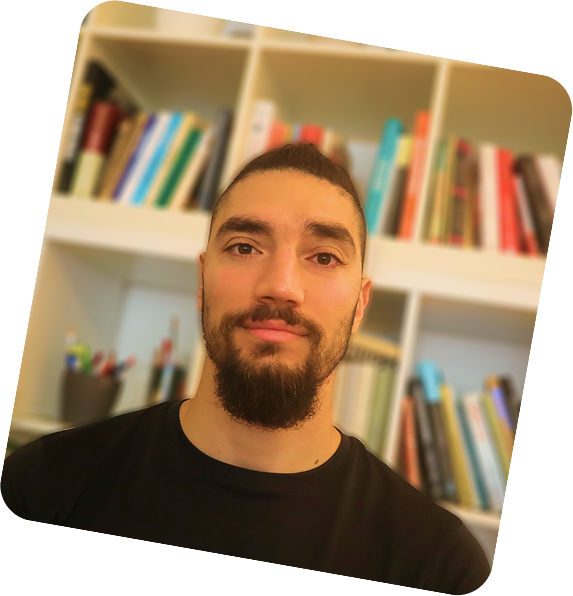
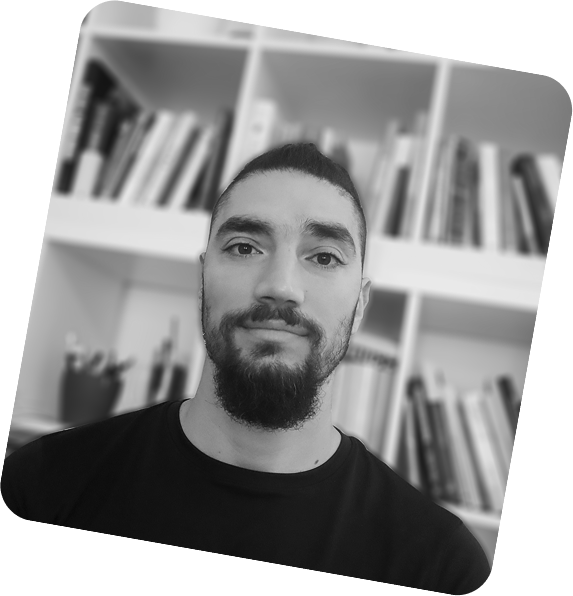
Responsive

diff --git a/style.css b/style.css
@@ -13,7 +13,7 @@
     --font-small: 0.875rem; /* 14px */
     --font-base: 1rem;      /* 16px */
     --font-large: clamp(1.5rem, 2vw, 2.5rem);  /* (min, prefered, max) */
-    --font-title: clamp(2.5rem, 4vw, 5rem);
+    --font-title: clamp(1rem, 4vw, 5rem);
 }
 
 
@@ -52,12 +52,13 @@ svg {
 
 /*--------------- HOME ---------------*/   
 #home {
-  max-width: 1500px;
+  max-width: 100%;
   margin: 0 auto;
   width: 100%;
   height: 90vh;
-  background: #cbaae1;
+  background: linear-gradient(90deg, rgba(197, 215, 222, 1) 1%, rgba(155, 191, 218, 1) 48%, rgba(137, 133, 204, 1) 100%);                
 }
+
 .nav {
   display: flex;
   justify-content: space-between;
@@ -79,8 +80,10 @@ svg {
   top: 10%;
 }
 .tsiou {
+  max-width: 100%;
   position: absolute;
   top: 50%;
+
 }
 
 
@@ -148,7 +151,11 @@ background: linear-gradient(90deg, rgba(197, 215, 222, 1) 1%, rgba(155, 191, 218
 }
 
 
+#planet {
+  display: flex;
+  justify-content: center;
 
+}
 
 
 
@@ -158,6 +165,7 @@ background: linear-gradient(90deg, rgba(197, 215, 222, 1) 1%, rgba(155, 191, 218
   z-index: 0;
 } */
 .about-container {
+  margin-top: 150px;
     padding: 80px 0 180px 0;
     height: 20%;
     display: flex;
@@ -188,15 +196,55 @@ background: linear-gradient(90deg, rgba(197, 215, 222, 1) 1%, rgba(155, 191, 218
     width: 80%;
     font-size: var(--font-base);
 }
+.about-container {
+  padding-top: 80px;
+  display: flex;
+  justify-content: space-around;
+  align-items: center;
+  width: 100%;
+  flex-wrap: wrap; /* allows stacking */
+}
+
+.container2 {
+  display: flex;
+  justify-content: center;
+  align-items: flex-start; 
+  gap: 20px; 
+  padding: 20px;
+  flex-wrap: wrap; /* makes it wrap on small screens */
+}
+
+.left {
+  padding-top: 20px;
+  width: 50%; /* desktop */
+}
+
+.left h2 {
+  font-size: var(--font-title);
+  padding-bottom: 12px;
+}
+
+.left p {
+  width: 80%;
+}
+
+
+
+
+
+
+
+
+
+
 
 
 
 .stuff {
   font-size: var(--font-large);
-  background: rgb(0, 0, 0);
   padding: 100px 0; 
+  margin: 0 0 100px 0;
   text-align: left;
-  margin-bottom: 300px;
   display: flex;
   justify-content: center;
   align-items: center;
@@ -205,7 +253,7 @@ background: linear-gradient(90deg, rgba(197, 215, 222, 1) 1%, rgba(155, 191, 218
 
 }
 .stuff h1 {
-  color: white;
+  color: rgb(0, 0, 0);
   opacity: 0;
 }
 
@@ -431,11 +479,7 @@ background: linear-gradient(90deg, rgba(197, 215, 222, 1) 1%, rgba(155, 218, 194
     z-index: 9;
 }
 
-@media (max-width: 768px) {
-    .gallery img{
-        width: 230px;
-    }
-}
+
 
 
 /* SKILLS */

diff --git a/index.html b/index.html
@@ -20,6 +20,7 @@
   <script src="https://cdn.jsdelivr.net/npm/gsap@3.12.7/dist/ScrollTrigger.min.js"></script>
   <script src="https://cdn.jsdelivr.net/npm/gsap@3.12.7/dist/ScrollToPlugin.min.js"></script>
   <script src="https://cdn.jsdelivr.net/npm/@studio-freight/lenis@0.3.15/bundled/lenis.js"></script>
+  <script src="https://cdnjs.cloudflare.com/ajax/libs/gsap/3.12.5/MotionPathPlugin.min.js"></script>
 <script src="https://unpkg.com/lenis@1.3.11/dist/lenis.min.js"></script> 
 
 <link rel="stylesheet" href="https://unpkg.com/lenis@1.3.11/dist/lenis.css">
@@ -84,6 +85,19 @@
     <h1>GEORGE ANASTASIOU</h1>
     <img class="tsiou" src="images/tsiou-hero.png" >
   </div>
+  <section id="planet">
+    <svg width="574" height="257" viewBox="0 0 74 57" fill="none" xmlns="http://www.w3.org/2000/svg">
+      <g class="planet">
+        <path class="planet1" d="M63.2703 17C67.6885 17 71.2703 13.4183 71.2703 9C71.2703 4.58172 67.6885 1 63.2703 1C58.852 1 55.2703 4.58172 55.2703 9C55.2703 13.4183 58.852 17 63.2703 17Z" stroke="black" stroke-width="1.5"/>
+        <path class="planet2" d="M68.7703 3.34801C71.0673 2.81001 72.7153 2.87201 73.1083 3.66001C73.8383 5.12601 69.9503 8.55001 64.4223 11.305C58.8933 14.062 53.8193 15.107 53.0883 13.641C52.6963 12.855 53.6323 11.507 55.4373 10.001" stroke="black" stroke-width="1.5"/>
+        <path class="planet3" d="M60.7703 7.51002L60.7803 7.49902" stroke="black" stroke-width="1.5" stroke-linecap="round" stroke-linejoin="round"/>
+      </g>
+
+  <path class="line" d="M14.3242 56.6824C-2.58736 30.2642 -16.9283 -16.6085 61 7.24635" stroke="black"/>
+    </svg>
+        </section>
+    
+
 </section>
 
 

diff --git a/media.css b/media.css
@@ -13,7 +13,11 @@
     .text {
         font-size: clamp(2rem, 2.6vw, 1.5rem);
 }
+
 }
+
+
+
 @media (max-width: 900px) {
     .content {
         padding: 0 50px;
@@ -21,8 +25,19 @@
     .img-wrapper {
         width: 250px;
     }
+    .about-container .left{
+        width: 100%;
+    }
 }
-@media (max-width: 730px) {
+
+
+
+@media (max-width: 768px) {
+
+    .tsiou {
+        width: 70%;
+    }
+
     .content {
         flex-direction: column-reverse;
         padding: 20px;
@@ -38,7 +53,14 @@
         padding: 0 80px;
         text-align: center;
     }
+    .gallery img{
+        width: 230px;
+    }
+   
+
 }
+
+/* --------------MEDIA 500PX--------------- */
 @media (max-width: 500px) {
     .img-wrapper {
         padding: 10px;
@@ -50,37 +72,6 @@
     }
 }
 
-.about-container {
-    padding-top: 80px;
-    display: flex;
-    justify-content: space-around;
-    align-items: center;
-    width: 100%;
-    flex-wrap: wrap; /* allows stacking */
-}
-
-.container2 {
-    display: flex;
-    justify-content: center;
-    align-items: flex-start; 
-    gap: 20px; 
-    padding: 20px;
-    flex-wrap: wrap; /* makes it wrap on small screens */
-}
-
-.left {
-    padding-top: 20px;
-    width: 50%; /* desktop */
-}
-
-.left h2 {
-    font-size: var(--font-title);
-    padding-bottom: 12px;
-}
-
-.left p {
-    width: 80%;
-}
 
 /* ---------- Responsive ---------- */
 @media (max-width: 768px) {

diff --git a/script.js b/script.js
@@ -242,7 +242,7 @@ function japan(){
     )
     })
 }
-// japan()
+japan()
 
 
 
@@ -325,6 +325,13 @@ function overlay(){
         document.documentElement.classList.remove("no-scroll");
     }
         }, "-=.6")
+        .from('.tsiou', {
+          duration: 1,
+          yPercent: 100,
+          ease: 'elastic.inOut(1, 1.3)',
+          opacity: 1
+        }, "-=.5")
+       
     }    
     // overlay()
 
@@ -354,6 +361,15 @@ skills()
 };
 
 
+gsap.registerPlugin(MotionPathPlugin);
 
-
-    
+gsap.to(".planet", {
+  duration: 6,           // how long one full path traversal takes
+  repeat: -1,            // loop forever
+  ease: "none",          // constant speed
+  motionPath: {
+    path: ".line",       // path to follow
+    align: ".line",      // align rotation to the path
+    alignOrigin: [0.3, 0.4]
+  }
+});
